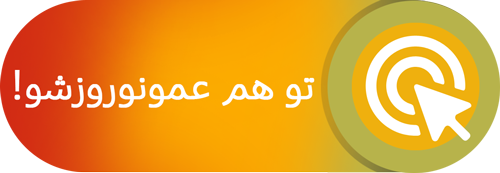
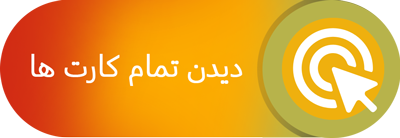
improve app

diff --git a/routes/image.js b/routes/image.js
@@ -7,56 +7,56 @@ router.get('/app/:id', function(req, res, next) {
     case 1:
       res.render('image', { imageUrl: '/images/cards/1.gif' ,
                             pageTopMessage: 'می تونی این کارت تبریک رو دانلود کنی یا برای کسایی که دوستشون داری تو تلگرام بفرستی. حتی می تونی برگردی و یه کارت دیگه انتخاب کنی.' ,
-                            retry: 'یکی دیگه می خواهم',
+                            retry: 'button2-200.png',
                             telegramMessage: 'یه کارت تبریک قشنگ فرستادم.برای دیدنش روی لینک بالا کلیک کن و کارت تبریک خودت رو بساز.'});
       break;
     case 2:
       res.render('image', { imageUrl: '/images/cards/2.gif' ,
                             pageTopMessage: 'می تونی این کارت تبریک رو دانلود کنی یا برای کسایی که دوستشون داری تو تلگرام بفرستی. حتی می تونی برگردی و یه کارت دیگه انتخاب کنی.' ,
-                            retry: 'یکی دیگه می خواهم',
+                            retry: 'button2-200.png',
                             telegramMessage: 'یه کارت تبریک قشنگ فرستادم.برای دیدنش روی لینک بالا کلیک کن و کارت تبریک خودت رو بساز.'});
       break;
     case 3:
       res.render('image', { imageUrl: '/images/cards/3.gif' ,
                             pageTopMessage: 'می تونی این کارت تبریک رو دانلود کنی یا برای کسایی که دوستشون داری تو تلگرام بفرستی. حتی می تونی برگردی و یه کارت دیگه انتخاب کنی.' ,
-                            retry: 'یکی دیگه می خواهم',
+                            retry: 'button2-200.png',
                             telegramMessage: 'یه کارت تبریک قشنگ فرستادم.برای دیدنش روی لینک بالا کلیک کن و کارت تبریک خودت رو بساز.'});
       break;
     case 4:
       res.render('image', { imageUrl: '/images/cards/4.gif' ,
                             pageTopMessage: 'می تونی این کارت تبریک رو دانلود کنی یا برای کسایی که دوستشون داری تو تلگرام بفرستی. حتی می تونی برگردی و یه کارت دیگه انتخاب کنی.' ,
-                            retry: 'یکی دیگه می خواهم',
+                            retry: 'button2-200.png',
                             telegramMessage: 'یه کارت تبریک قشنگ فرستادم.برای دیدنش روی لینک بالا کلیک کن و کارت تبریک خودت رو بساز.'});
       break;
     case 5:
       res.render('image', { imageUrl: '/images/cards/5.gif' ,
                             pageTopMessage: 'می تونی این کارت تبریک رو دانلود کنی یا برای کسایی که دوستشون داری تو تلگرام بفرستی. حتی می تونی برگردی و یه کارت دیگه انتخاب کنی.' ,
-                            retry: 'یکی دیگه می خواهم',
+                            retry: 'button2-200.png',
                             telegramMessage: 'یه کارت تبریک قشنگ فرستادم.برای دیدنش روی لینک بالا کلیک کن و کارت تبریک خودت رو بساز.'});
       break;
     case 6:
       res.render('image', { imageUrl: '/images/cards/6.gif',
                             pageTopMessage: 'می تونی این مطلب رو دانلود کنی یا برای کسایی که دوستشون داری تو تلگرام بفرستی. حتی می تونی برگردی و مطالب دیگه رو انتخاب کنی.' ,
-                            retry: 'یکی دیگه می خواهم',
-                            telegramMessage: 'چند پیشنهاد خوب برای استفاده بهتر از گوشی.برای دیدنش روی لینک بالا کلیک کن و با دوستات به اشتراک بزار.'});
+                            retry: 'button2-200.png',
+                            telegramMessage: 'چند پیشنهاد خوب برای استفاده بهتر از گوشی.برای دیدنش روی لینک بالا کلیک کن و با دوستات به اشتراک بذار.'});
       break;
     case 7:
       res.render('image', { imageUrl: '/images/cards/7.gif',
                             pageTopMessage: 'می تونی این مطلب رو دانلود کنی یا برای کسایی که دوستشون داری تو تلگرام بفرستی. حتی می تونی برگردی و مطالب دیگه رو انتخاب کنی.' ,
-                            retry: 'یکی دیگه می خواهم',
-                            telegramMessage: 'چند پیشنهاد خوب برای استفاده بهتر از گوشی.برای دیدنش روی لینک بالا کلیک کن و با دوستات به اشتراک بزار.'});
+                            retry: 'button2-200.png',
+                            telegramMessage: 'چند پیشنهاد خوب برای استفاده بهتر از گوشی.برای دیدنش روی لینک بالا کلیک کن و با دوستات به اشتراک بذار.'});
       break;
     case 8:
       res.render('image', { imageUrl: '/images/cards/8.gif',
                             pageTopMessage: 'می تونی این مطلب رو دانلود کنی یا برای کسایی که دوستشون داری تو تلگرام بفرستی. حتی می تونی برگردی و مطالب دیگه رو انتخاب کنی.' ,
-                            retry: 'یکی دیگه می خواهم',
-                            telegramMessage: 'چند پیشنهاد خوب برای استفاده بهتر از گوشی.برای دیدنش روی لینک بالا کلیک کن و با دوستات به اشتراک بزار.'});
+                            retry: 'button2-200.png',
+                            telegramMessage: 'چند پیشنهاد خوب برای استفاده بهتر از گوشی.برای دیدنش روی لینک بالا کلیک کن و با دوستات به اشتراک بذار.'});
       break;
     case 9:
       res.render('image', { imageUrl: '/images/cards/9.gif',
                             pageTopMessage: 'می تونی این مطلب رو دانلود کنی یا برای کسایی که دوستشون داری تو تلگرام بفرستی. حتی می تونی برگردی و مطالب دیگه رو انتخاب کنی.' ,
-                            retry: 'یکی دیگه می خواهم',
-                            telegramMessage: 'چند پیشنهاد خوب برای استفاده بهتر از گوشی.برای دیدنش روی لینک بالا کلیک کن و با دوستات به اشتراک بزار.'});
+                            retry: 'button2-200.png',
+                            telegramMessage: 'چند پیشنهاد خوب برای استفاده بهتر از گوشی.برای دیدنش روی لینک بالا کلیک کن و با دوستات به اشتراک بذار.'});
       break;
     default:
       res.render('image', { });

diff --git a/routes/process.js b/routes/process.js
@@ -36,7 +36,7 @@ router.get('/:id', upload.single('image'), function(req, res, next) {
   res.render('image', { imageUrl: '/images/processed/' + req.params.id + '.jpg',
                         message: 'تاری عکس، نور بد، فاصله زیاد یا دلایل دیگه ممکن است باعث عدم تشخیص چهره شود، در صورت بروز مجدد تلاش کنین.',
                         pageTopMessage: 'می تونی کارت تبریکت رو دانلود کنی یا برای کسایی که دوستشون داری تو تلگرام بفرستی. اگه کارت تبریکت رو دوست نداشتی می تونی برگردی و دوباره امتحان کنی.',
-                        retry: 'دوباره عکس می گیرم',
+                        retry: 'button1-200.png',
                         telegramMessage: 'یه کارت تبریک قشنگ فرستادم.برای دیدنش روی لینک بالا کلیک کن و کارت تبریک خودت رو بساز.'});
 });
 
